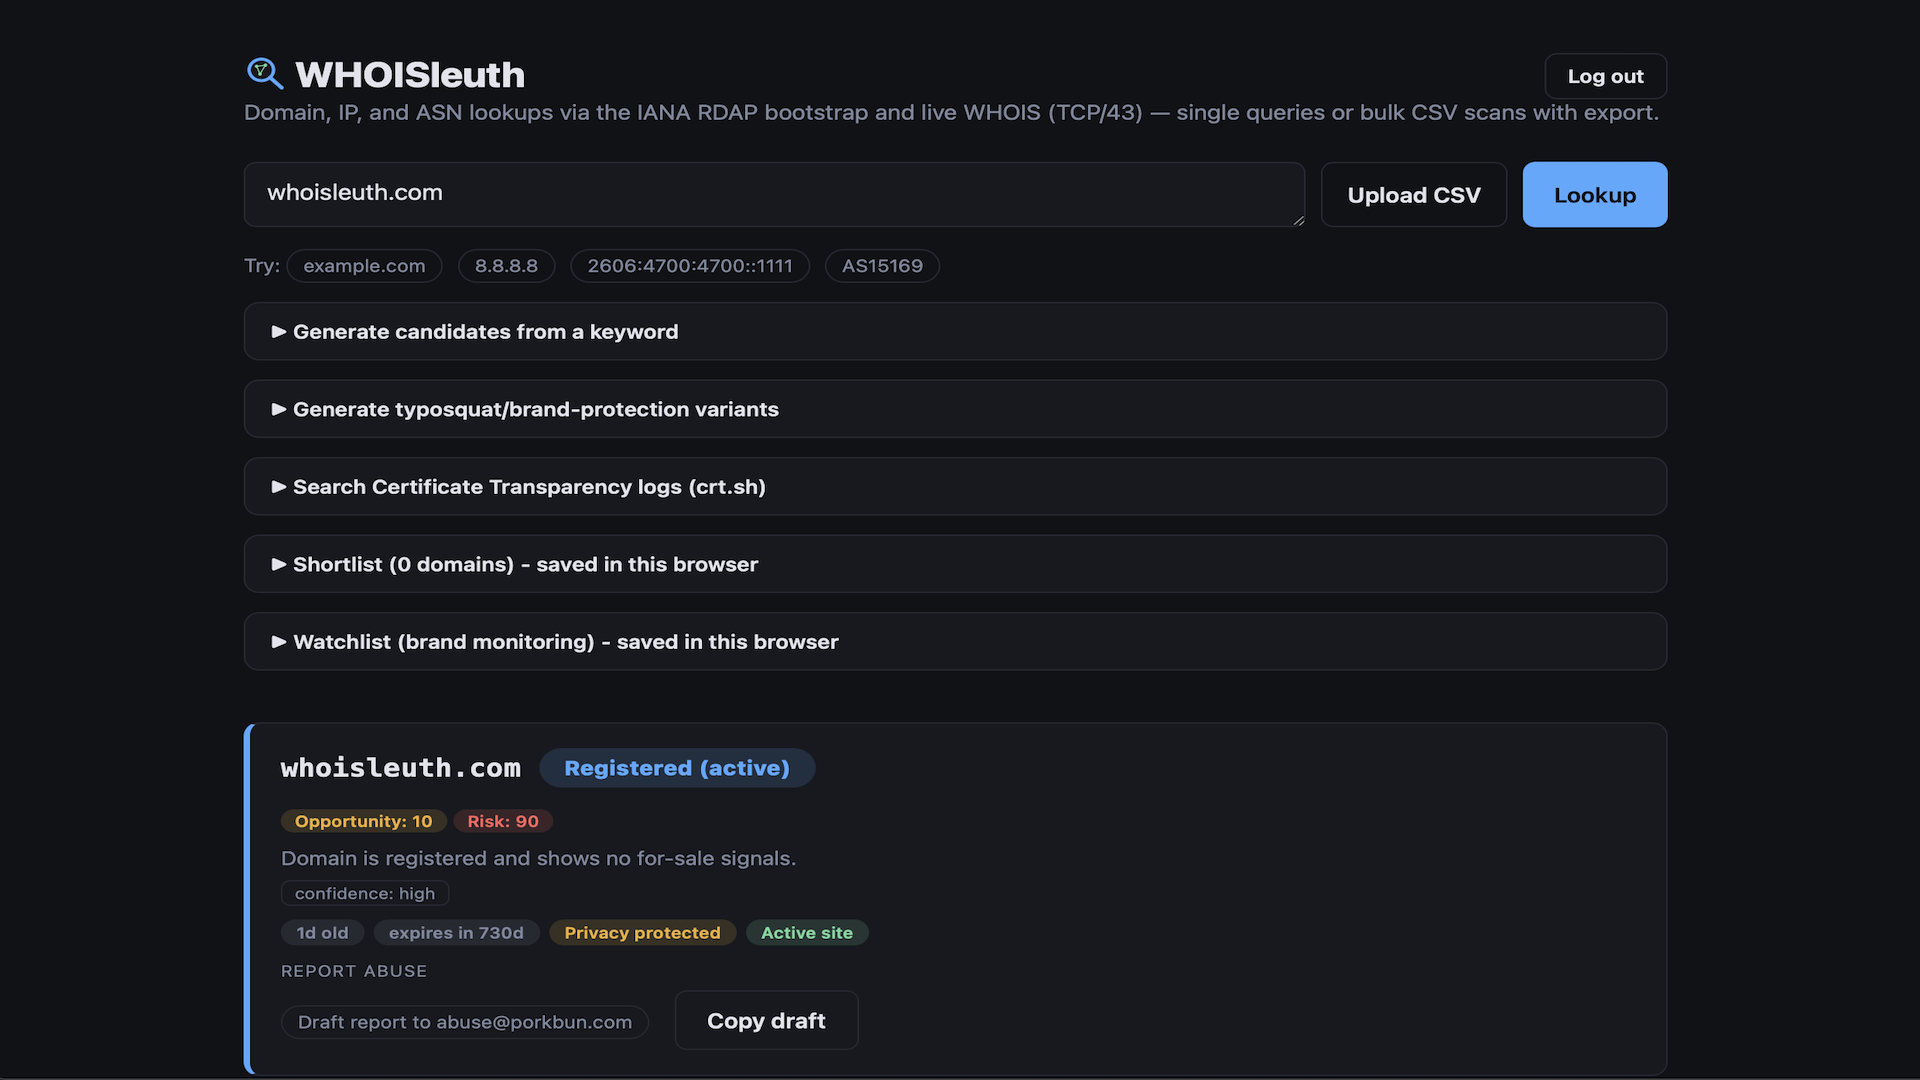
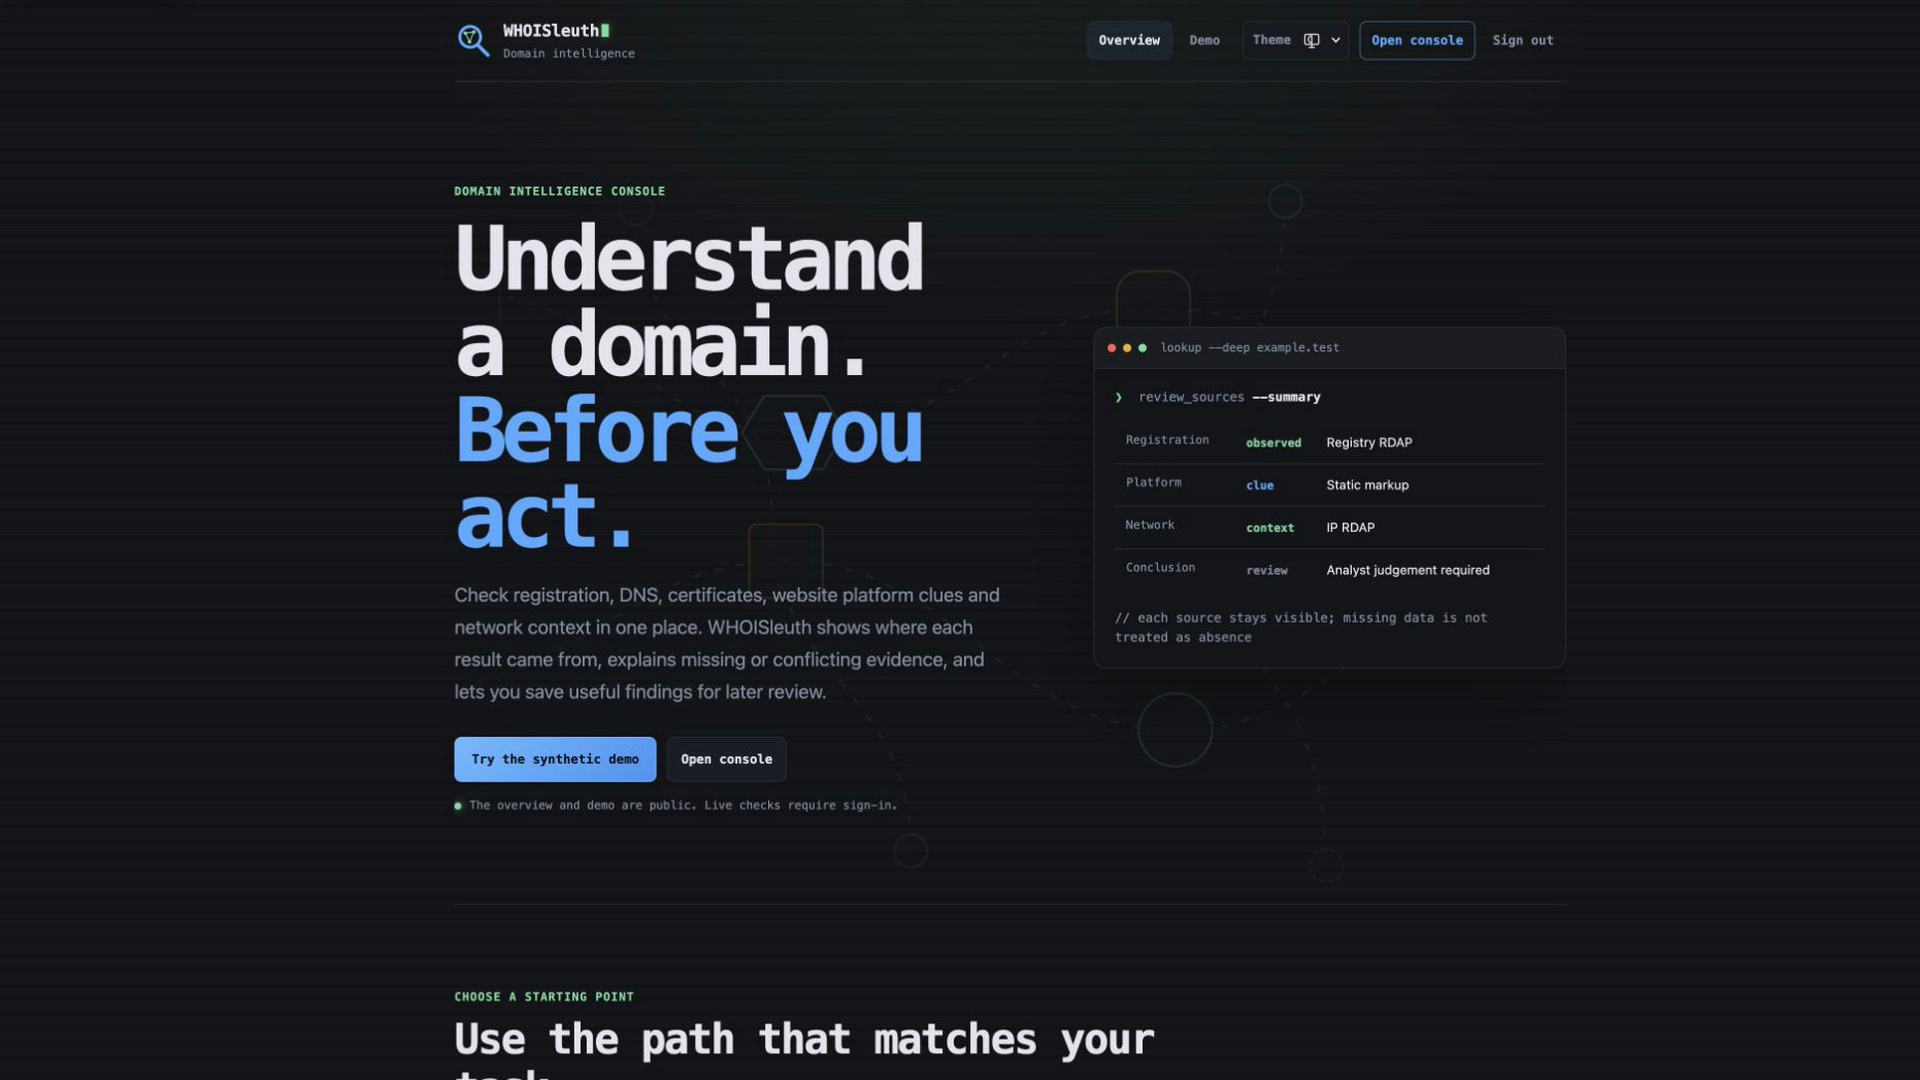
Refresh portfolio projects and skills
Updates the featured project set with current screenshots and concise descriptions. Adds optional live-site actions alongside repository links and records separate analytics destinations for each action.

Refreshes the skills list and hero particle set with the new language icon while removing superseded project and skill assets.

Verified with:
- npm run build

diff --git a/src/components/sections/tsparticles-config.ts b/src/components/sections/tsparticles-config.ts
@@ -1,131 +1,136 @@
 import type { ISourceOptions } from "@tsparticles/engine"
 
 export const tsparticlesConfig: ISourceOptions = {
-  "backgroundMask": {
-    "enable": false
+  backgroundMask: {
+    enable: false,
   },
-  "fullScreen": false,
-  "detectRetina": true,
-  "fpsLimit": 60,
-  "particles": {
-    "reduceDuplicates": true,
-    "color": {
-      "value": "#ffffff"
+  fullScreen: false,
+  detectRetina: true,
+  fpsLimit: 60,
+  particles: {
+    reduceDuplicates: true,
+    color: {
+      value: "#ffffff",
     },
-    "collisions": {
-      "enable": true,
-      "mode": "bounce"
+    collisions: {
+      enable: true,
+      mode: "bounce",
     },
-    "links": {
-      "blink": false,
-      "color": "#000",
-      "consent": false,
-      "distance": 150,
-      "enable": false,
-      "opacity": 1,
-      "width": 1
+    links: {
+      blink: false,
+      color: "#000",
+      consent: false,
+      distance: 150,
+      enable: false,
+      opacity: 1,
+      width: 1,
     },
-    "rotate": {
-      "value": 0,
-      "random": true,
-      "direction": "clockwise",
-      "animation": {
-        "enable": true,
-        "speed": 5,
-        "sync": false
-      }
-    },
-    "move": {
-      "attract": {
-        "enable": false,
-        "rotateX": 600,
-        "rotateY": 1200
+    rotate: {
+      value: 0,
+      random: true,
+      direction: "clockwise",
+      animation: {
+        enable: true,
+        speed: 5,
+        sync: false,
       },
-      "bounce": true,
-      "direction": "none",
-      "enable": true,
-      "outMode": "bounce",
-      "random": false,
-      "speed": 2,
-      "straight": false
     },
-    "number": {
-      "density": {
-        "enable": true,
-        "area": 800
+    move: {
+      attract: {
+        enable: false,
+        rotateX: 600,
+        rotateY: 1200,
       },
-      "limit": 0,
-      "value": 50
+      bounce: true,
+      direction: "none",
+      enable: true,
+      outMode: "bounce",
+      random: false,
+      speed: 2,
+      straight: false,
     },
-    "opacity": {
-      "value": 0.8
+    number: {
+      density: {
+        enable: true,
+        area: 800,
+      },
+      limit: 0,
+      value: 50,
     },
-    "shape": {
-      "type": "image",
-      "options": {
-        "image": [
-          {
[1 lines of base64/hex data omitted]
-            "width": 32,
-            "height": 32
-          },
-          {
[1 lines of base64/hex data omitted]
-            "width": 32,
-            "height": 32
-          },
-          {
[1 lines of base64/hex data omitted]
-            "width": 32,
-            "height": 32
-          },
-          {
[1 lines of base64/hex data omitted]
-            "width": 32,
-            "height": 32
-          },
-          {
[1 lines of base64/hex data omitted]
-            "width": 32,
-            "height": 32
-          },
-          {
[1 lines of base64/hex data omitted]
-            "width": 32,
-            "height": 32
-          },
-          {
[1 lines of base64/hex data omitted]
-            "width": 32,
-            "height": 32
-          },
-          {
[1 lines of base64/hex data omitted]
-            "width": 32,
-            "height": 32
-          },
-          {
[1 lines of base64/hex data omitted]
-            "width": 32,
-            "height": 32
-          },
-          {
[1 lines of base64/hex data omitted]
-            "width": 32,
-            "height": 32
-          },
-          {
[1 lines of base64/hex data omitted]
-            "width": 32,
-            "height": 32
-          }
-        ]
-      }
+    opacity: {
+      value: 0.8,
     },
-    "size": {
-      "value": 10
-    }
+    shape: {
+      type: "image",
+      options: {
+        image: [
+          {
[1 lines of base64/hex data omitted]
+            width: 32,
+            height: 32,
+          },
+          {
[1 lines of base64/hex data omitted]
+            width: 32,
+            height: 32,
+          },
+          {
[1 lines of base64/hex data omitted]
+            width: 32,
+            height: 32,
+          },
+          {
[1 lines of base64/hex data omitted]
+            width: 32,
+            height: 32,
+          },
+          {
[1 lines of base64/hex data omitted]
+            width: 32,
+            height: 32,
+          },
+          {
[1 lines of base64/hex data omitted]
+            width: 32,
+            height: 32,
+          },
+          {
[1 lines of base64/hex data omitted]
+            width: 32,
+            height: 32,
+          },
+          {
[1 lines of base64/hex data omitted]
+            width: 32,
+            height: 32,
+          },
+          {
[1 lines of base64/hex data omitted]
+            width: 32,
+            height: 32,
+          },
+          {
[1 lines of base64/hex data omitted]
+            width: 32,
+            height: 32,
+          },
+          {
[1 lines of base64/hex data omitted]
+            width: 32,
+            height: 32,
+          },
+          {
[1 lines of base64/hex data omitted]
+            width: 32,
+            height: 32,
+          },
+        ],
+      },
+    },
+    size: {
+      value: 10,
+    },
   },
-  "pauseOnBlur": true,
-  "pauseOnOutsideViewport": true
+  pauseOnBlur: true,
+  pauseOnOutsideViewport: true,
 }

diff --git a/src/content.config.ts b/src/content.config.ts
@@ -9,6 +9,7 @@ const projects = defineCollection({
     image: z.string(),
     image_alt: z.string(),
     githubURL: z.string().url(),
+    deployedURL: z.string().url().optional(),
     description: z.string(),
   }),
 })